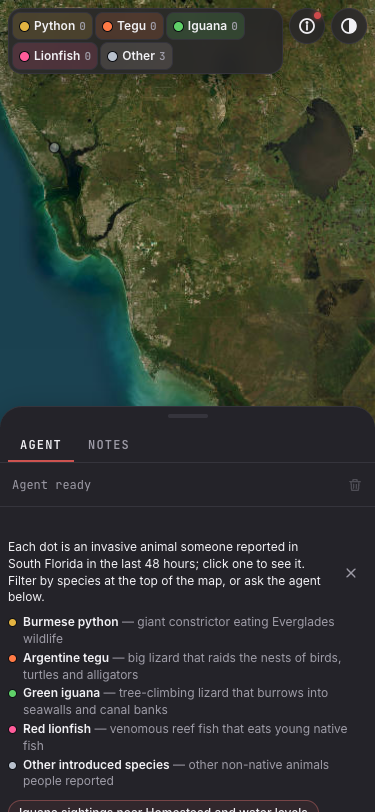
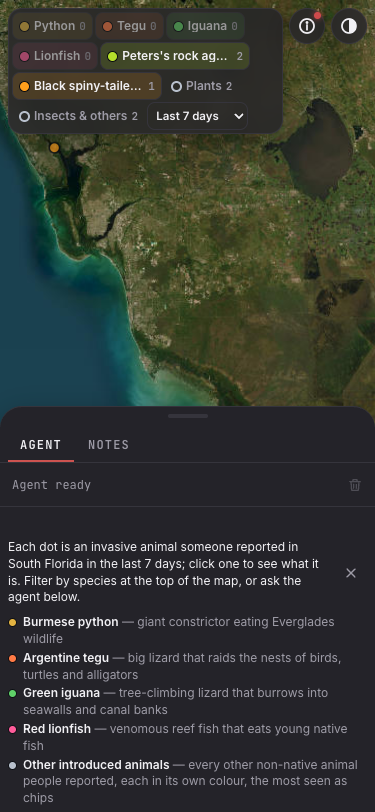
wip: taxa sync covers focus ids, bar tests

diff --git a/apps/web/tests/client/hud/taxa.test.tsx b/apps/web/tests/client/hud/taxa.test.tsx
@@ -1,0 +1,109 @@
+import { describe, expect, test } from "bun:test";
+import { get, init, set } from "@calvinjs/active-state";
+
+import { groupOf, isFocusTaxon, TAXA, taxonGroup, taxonName, type TaxaState, type TaxonInfo } from "client/state/taxa";
+import { ensureTaxa, normalizeTaxon, putTaxa, taxonIdsOf } from "client/hud/taxa";
+import { firstSentence, speciesChips, TOP_ANIMAL_CHIPS } from "client/hud/species/SpeciesBar";
+import { LAYERS } from "client/state/layers";
+import { colorOfTaxon, NEUTRAL_COLOR, SPECIES_COLORS } from "client/globe/species";
+import { state } from "client/state";
+import type { SightingRecord } from "shared/frames";
+
+init(state);
+
+const taxon = (id: number, commonName: string, iconicGroup: string | null, summary: string | null = null): TaxonInfo => ({
+  id,
+  scientificName: `Genus species${id}`,
+  commonName,
+  focus: id <= 4,
+  iconicGroup,
+  summary,
+  photoUrl: null,
+  pageUrl: `https://www.inaturalist.org/taxa/${id}`,
+});
+
+describe("taxa store (T44)", () => {
+  test("names, groups and the focus ids", () => {
+    expect(taxonName({ commonName: "Brown Anole", scientificName: "Anolis sagrei" })).toBe("Brown anole");
+    expect(taxonName({ commonName: "", scientificName: "Anolis sagrei" })).toBe("Anolis sagrei");
+    expect(taxonName({ commonName: "", scientificName: "" })).toBe("Unnamed species");
+    expect(taxonName(null, "Species 9")).toBe("Species 9");
+    expect(groupOf("Reptilia")).toBe("animals");
+    expect(groupOf("Aves")).toBe("animals");
+    expect(groupOf("Plantae")).toBe("plants");
+    expect(groupOf("Fungi")).toBe("plants");
+    expect(groupOf("Insecta")).toBe("others");
+    expect(groupOf("other")).toBe("others");
+    expect(groupOf(null)).toBe("others");
+    expect([0, 1, 4, 5].map(isFocusTaxon)).toEqual([false, true, true, false]);
+    // Unknown taxa draw as animals until loaded; the focus four are animals whatever the store says.
+    expect(taxonGroup({}, 99)).toBe("animals");
+    expect(taxonGroup({ "99": taxon(99, "x", "Plantae") }, 99)).toBe("plants");
+    expect(taxonGroup({}, 2)).toBe("animals");
+  });
+
+  test("ensureTaxa asks once per unknown id, in batches, and fills the store; the focus ids ride along", async () => {
+    set<TaxaState>(TAXA, TAXA.defaults);
+    const asked: string[][] = [];
+    const request = async <T,>(_q: string, vars?: Record<string, unknown>): Promise<T> => {
+      const ids = vars!.ids as string[];
+      asked.push(ids);
+      return { taxa: ids.map((id) => ({ id, scientificName: `S${id}`, commonName: id === "7" ? "" : `Common ${id}`, focus: Number(id) <= 4, iconicGroup: id === "7" ? null : "Reptilia", summary: null, photoUrl: null, pageUrl: null })) } as T;
+    };
+    const records = (ids: number[]): SightingRecord[] => ids.map((taxon) => ({ id: taxon, lon: -80.5, lat: 25.5, taxon, quality: 0, flags: 0 }));
+    const sightings = { counts: Uint32Array.from([2, 1]), records: (f: number) => (f === 0 ? records([5, 7]) : records([5])) };
+    expect(taxonIdsOf(sightings).sort((a, b) => a - b)).toEqual([1, 2, 3, 4, 5, 7]);
+    await ensureTaxa(taxonIdsOf(sightings), request as typeof import("client/threads/api").gqlRequest);
+    expect(asked).toEqual([["1", "2", "3", "4", "5", "7"]]);
+    const byId = get<TaxaState>(TAXA)!.byId;
+    expect(Object.keys(byId).sort()).toEqual(["1", "2", "3", "4", "5", "7"]);
+    expect(byId["7"]).toMatchObject({ id: 7, commonName: "", iconicGroup: null });
+    expect(get<TaxaState>(TAXA)!.version).toBe(1);
+    // Nothing new: no request, no version bump. A new id: one more request for it alone.
+    await ensureTaxa([5, 7], request as typeof import("client/threads/api").gqlRequest);
+    expect(asked.length).toBe(1);
+    await ensureTaxa([5, 9], request as typeof import("client/threads/api").gqlRequest);
+    expect(asked[1]).toEqual(["9"]);
+    expect(get<TaxaState>(TAXA)!.version).toBe(2);
+    putTaxa([normalizeTaxon({ id: "9", scientificName: "S9", commonName: "Common 9", focus: false, iconicGroup: "Reptilia", summary: null, photoUrl: null, pageUrl: null })]);
+    expect(get<TaxaState>(TAXA)!.version).toBe(2);
+    set<TaxaState>(TAXA, TAXA.defaults);
+  });
+
+  test("the bar's chips: focus pinned first even at 0, the most-seen animals next, then Plants and Insects & others off", () => {
+    const taxa = {
+      "10": taxon(10, "Brown Anole", "Reptilia", "The brown anole is a lizard. It is everywhere."),
+      "11": taxon(11, "Cuban Tree Frog", "Amphibia"),
+      "12": taxon(12, "Oleander", "Plantae"),
+      "13": taxon(13, "Fire Ant", "Insecta"),
+      "14": taxon(14, "Egyptian Goose", "Aves"),
+      "15": taxon(15, "Cane Toad", "Amphibia"),
+      "16": taxon(16, "Muscovy Duck", "Aves"),
+      "17": taxon(17, "Rock Agama", "Reptilia"),
+      "18": taxon(18, "House Gecko", "Reptilia"),
+      "19": taxon(19, "", "Reptilia"),
+    };
+    const breakdown = { "1": 0, "2": 0, "3": 5, "4": 0, "10": 40, "11": 20, "12": 300, "13": 9, "14": 8, "15": 7, "16": 6, "17": 5, "18": 4, "19": 3, "20": 2 };
+    const chips = speciesChips(LAYERS.defaults.species, taxa, breakdown);
+    expect(chips.map((c) => c.key)).toEqual(["python", "tegu", "iguana", "lionfish", "t10", "t11", "t14", "t15", "t16", "t17", "plants", "others"]);
+    expect(TOP_ANIMAL_CHIPS).toBe(6);
+    expect(chips.slice(0, 4).map((c) => c.count)).toEqual([0, 0, 5, 0]);
+    expect(chips[4]).toMatchObject({ name: "Brown anole", line: "The brown anole is a lizard.", color: colorOfTaxon(10), on: true, count: 40, target: { kind: "taxon", id: 10 } });
+    expect(chips[5]!.line).toBe("Genus species11, an introduced species");
+    // Group chips: totals over every taxon of the group (not only the chips), neutral while off. 20 is unknown: an animal.
+    expect(chips.find((c) => c.key === "plants")).toMatchObject({ name: "Plants", count: 300, on: false, color: NEUTRAL_COLOR });
+    expect(chips.find((c) => c.key === "others")).toMatchObject({ name: "Insects & others", count: 9, on: false });
+    expect(chips[0]!.color).toBe(SPECIES_COLORS[0]!);
+    // Filters show on the chips: a taxon override, a group switched on, a focus species off.
+    const filtered = speciesChips({ ...LAYERS.defaults.species, iguana: false, plants: true, t10: false }, taxa, breakdown);
+    expect(filtered.find((c) => c.key === "iguana")!.on).toBe(false);
+    expect(filtered.find((c) => c.key === "t10")!.on).toBe(false);
+    expect(filtered.find((c) => c.key === "plants")!.on).toBe(true);
+    // Before the globe reports: counts unknown, the four focus chips and the groups still there.
+    expect(speciesChips(LAYERS.defaults.species, taxa, null).map((c) => c.key)).toEqual(["python", "tegu", "iguana", "lionfish", "plants", "others"]);
+    expect(speciesChips(LAYERS.defaults.species, taxa, null)[0]!.count).toBeNull();
+    expect(firstSentence("One. Two.")).toBe("One.");
+    expect(firstSentence("No end")).toBe("No end");
+    expect(firstSentence(null)).toBeNull();
+  });
+});

diff --git a/apps/web/client/hud/taxa.ts b/apps/web/client/hud/taxa.ts
@@ -8,6 +8,7 @@ import { get, set } from "@calvinjs/active-state";
 
 import { TAXA, type TaxaState, type TaxonInfo } from "client/state/taxa";
 import { gqlRequest, getFrameSightings, onFrameSightings, type FrameSightings } from "client/threads/api";
+import { SPECIES_IDS } from "shared/voice/ui-tools";
 
 export const TAXA_QUERY = `query HudTaxa($ids: [ID!]!) {
   taxa(ids: $ids) { id scientificName commonName focus iconicGroup summary photoUrl pageUrl }
@@ -69,9 +70,9 @@ export async function ensureTaxa(ids: Iterable<number>, request: typeof gqlReque
   }
 }
 
-/** Distinct taxon ids on every published frame. */
+/** Distinct taxon ids on every published frame, always with the four focus species (their chips are pinned even at 0). */
 export function taxonIdsOf(s: FrameSightings): number[] {
-  const out = new Set<number>();
+  const out = new Set<number>(SPECIES_IDS.map((_, i) => i + 1));
   for (let f = 0; f < s.counts.length; f++) for (const r of s.records(f)) out.add(r.taxon);
   return [...out];
 }

diff --git a/api/src/graphql/query.rs b/api/src/graphql/query.rs
@@ -176,14 +176,15 @@ impl QueryRoot {
             return Err("`taxa` needs `ids` or `q`".into());
         }
         let ids = json_list(ids.map(|ids| taxon_ids(&ids)).transpose()?);
-        let like = q.map(|s| format!("%{}%", s.replace(['%', '_'], " ")));
+        // `%` and `_` in the caller's text are literal (escaped), never wildcards.
+        let like = q.map(|s| format!("%{}%", s.replace('\\', "\\\\").replace('%', "\\%").replace('_', "\\_")));
         let rows = app_state(ctx)
             .obs
             .read(move |c| {
                 let mut st = c.prepare_cached(&format!(
                     "select {} from taxa t
                      where (?1 is null or t.id in (select value from json_each(?1)))
-                       and (?2 is null or t.common_name like ?2 or t.scientific_name like ?2)
+                       and (?2 is null or t.common_name like ?2 escape '\\' or t.scientific_name like ?2 escape '\\')
                      order by t.focus desc, t.id
                      limit ?3",
                     Taxon::COLUMNS

diff --git a/api/src/taxon_info.rs b/api/src/taxon_info.rs
@@ -295,7 +295,7 @@ pub async fn enrich(state: &AppState) -> anyhow::Result<usize> {
 pub async fn apply_page(state: &AppState, bytes: &[u8]) -> anyhow::Result<usize> {
     let infos = parse_page(bytes)?;
     let now = chrono::Utc::now().timestamp_millis();
-    Ok(state.obs.write(move |tx| apply(tx, &infos, now)).await?)
+    state.obs.write(move |tx| apply(tx, &infos, now)).await
 }
 
 /// Fill `inat_taxon_id` and `iconic_group` of taxa whose iNat sightings predate T44, from the archived
@@ -418,7 +418,8 @@ mod tests {
         assert!(!summary.contains('<'), "{summary}");
         assert!(summary.matches(". ").count() <= 1, "more than two sentences: {summary}");
         assert_eq!(batch_url(&[1, 2, 3]), "https://api.inaturalist.org/v1/taxa/1,2,3");
-        assert!(BATCH <= 30);
+        // iNat accepts at most 30 ids per call and asks for at most one request a second.
+        assert_eq!(batch_url(&(1..=BATCH as i64).collect::<Vec<_>>()).matches(',').count(), 29);
         assert!(REQUEST_INTERVAL >= Duration::from_secs(1));
     }
 
